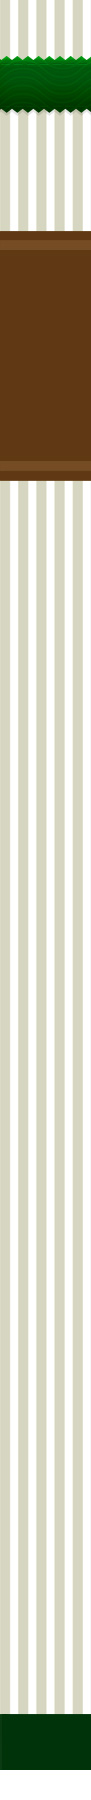
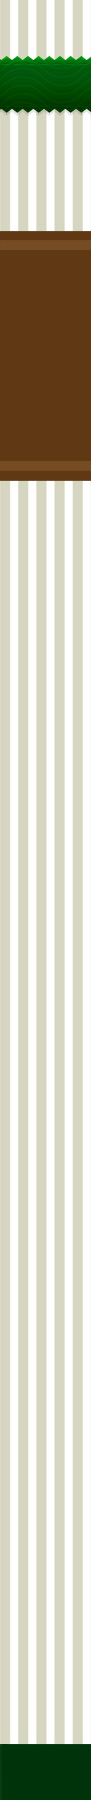
Homepage & About
Only thing lacking in the homepage is the counter and it's all set.
About page is 80% done.

Changed region(s): [[0.0, 0.9333, 1.0, 1.0]]

diff --git a/stylesheet/stylesheet.css b/stylesheet/stylesheet.css
@@ -155,7 +155,6 @@
 
 /* END NIVO SLIDER STYLE*/
 
-
 body{
 	background:url(../images/main_background_bg_2.jpg) top left repeat-x;
 	font-family:Arial, Helvetica, sans-serif;
@@ -180,9 +179,9 @@ body{
 	height:auto;
 	margin:0 auto;
 	background:#FFFFFF;
-	-webkit-box-shadow: 4px 2px  #a7a7a7,  -4px 0 2px #a7a7a7;   
-	-moz-box-shadow: 4px 0 2px #a7a7a7,  -4px 0 2px #a7a7a7;   
-	box-shadow: 4px 0 2px #a7a7a7,  -4px 0 2px #a7a7a7;
+	-webkit-box-shadow: 4px 2px  #ddd,  -4px 0 2px #ddd;   
+	-moz-box-shadow: 4px 0 2px #ddd,  -4px 0 2px #ddd;   
+	box-shadow: 4px 0 2px #ddd,  -4px 0 2px #ddd;
 	padding:10px 0px 0px 0px;
 }
 
@@ -380,17 +379,21 @@ body{
 
 .fundraiser_text_about{
 	font-family:Arial, Helvetica, sans-serif;
-	font-size:32px;
+	font-size:22px;
 	font-weight:bold;
 	text-transform: none;
 	color:#00361b;
 	display:block;
 	background:url(../images/funeral_box1.png) 875px -14px no-repeat;
 	width:1024px;
-	height:104px;
+	height:55px;
 	margin:-64px 0px 0px 0px;
 	text-align:center;
 	padding:40px 0px 0px 0px;
+}
+
+ul.social{
+	padding-top:80px;	
 }
 
 .banner_area{
@@ -469,7 +472,7 @@ body{
 
 .left_panel_there_more{
 	width: 555px;
-	height: 460px;
+	height: 500px;
 	background: url(../images/about_left_panel.png) -6px 0px no-repeat;
 	font-family: Arial, Helvetica, sans-serif;
 	font-size: 16px;
@@ -484,7 +487,7 @@ body{
 	color: #363636;
     font-family: Arial,Helvetica,sans-serif;
     font-size: 16px;
-    height: 72px;
+    height: 65px;
     position: relative;
     right: -162px;
     text-align: justify;
@@ -526,7 +529,7 @@ body{
 
 .golden_oppurtunitie{
 	width:557px;
-	height:803px;
+	height:823px;
 	background:url(../images/golden_oppurtunitie_panel.png)top left no-repeat;
 }
 
@@ -668,13 +671,9 @@ body{
     height: 115px;
     left: -69px;
     position: relative;
-    top: 28px;
+    top: 79px;
     width: 70px;
 }
-
-
-
-
 
 .scroll_down_text{
 	width:1004px;
@@ -813,8 +812,7 @@ body{
 	width:1024px;
 	height:auto;
 	background:#003309;
-	margin:0 auto;
-	
+	margin:0 auto;	
 }
 
 .footer_left{

diff --git a/css/style.css b/css/style.css
@@ -165,17 +165,29 @@ ul.social li{
 #socialbox{
 	background: none; height: 60px;
 }
-#intervid {
-	padding-left:20px;
-}
 #socialbox2{
-	float: right; background: none; height: 52px; 
+	background: none; width: 635px; height: 52px;
+}
+#intervid {
+	width: 635px; padding-left:20px;
 }
 #fund-thermo{
 	width: 200px; margin-left: 10px;	
 }
 #fund-countdown{
 	width: 800px; margin-right: 10px;
+}
+.fundraising-button{
+	width: 380px; height: 65px; background:url(../images/green-ribbon-button.jpg) no-repeat; padding-top: 5px; color: #fff;
+}
+.fundraising-button2{
+	width: 380px; height: 65px; background:url(../images/green-ribbon-button.jpg) no-repeat; padding-top: 13px; color: #fff; 
+}
+.fundraising-button2 h3{
+	font-size: 15px;
+}
+.fundraising-button:hover, .fundraising-button2:hover{
+	color: #DDD;	
 }
 
 /* Contacts Page */

diff --git a/index_about_us.php b/index_about_us.php
@@ -2,7 +2,7 @@
 <html xmlns="http://www.w3.org/1999/xhtml">
 <head>
 <meta http-equiv="Content-Type" content="text/html; charset=utf-8" />
-<title>index</title>
+<title>About Us</title>
 
 <link href='http://fonts.googleapis.com/css?family=Average+Sans' rel='stylesheet' type='text/css'>
 <link rel="stylesheet" href="js/default/default.css" type="text/css" media="screen" />
@@ -115,21 +115,16 @@
 </div> 
 
   <div class="fundraiser_text_about">
-The fundraiser changing the world, <br />
-one bite at a time!
+The fundraiser changing the world, one bite at a time!
 
   </div>
   
-  
-  
-  <div class="scroll_down_text_about">
-  
-  </div>
+  <div class="scroll_down_text_about"></div>
   
   <div class="banner_area_about" >
   
   	
-    <ul>
+    <ul class="social">
     	<li>
           <a href="#">
         <img src="images/rss_icon.png" width="28" height="26" alt="" />
@@ -161,16 +156,10 @@ one bite at a time!
             <div class="slider-wrapper theme-default">
 				<div class="navBtns"> <a href="#" id="previousButton">Prev</a> <a href="#" id="nextButton">Next</a> </div>
 				<div id="slider" class="nivoSlider">
+                	<img src="images/abt-banner-1.jpg" data-thumb="images/abt-banner-1.jpg" alt=""  />
 					<img src="images/abt-banner-3.jpg" data-thumb="images/abt-banner-3.jpg" alt="" />
 					<img src="images/abt-banner-2.jpg" data-thumb="images/abt-banner-2.jpg" alt="" />
-					<img src="images/abt-banner-4.jpg" data-thumb="images/abt-banner-4.jpg" alt=""  /><!--title="#htmlcaption"-->
-                    <img src="images/abt-banner-1.jpg" data-thumb="images/abt-banner-1.jpg" alt=""  /><!--title="#htmlcaption2"-->
-				</div>
-				<div id="htmlcaption" class="nivo-html-caption">
-					<strong>This</strong> is Caption #1 with <a href="#">a link</a>. 
-				</div>
-                <div id="htmlcaption2" class="nivo-html-caption">
-					<strong>This</strong> is Caption #2 with <a href="#">a link</a>. 
+					<img src="images/abt-banner-4.jpg" data-thumb="images/abt-banner-4.jpg" alt=""  />
 				</div>
 			</div>
     </div>
@@ -186,14 +175,12 @@ one bite at a time!
                 	
                     <p class="first_text">
                     Our mission is to embark on a life-changing journey where Meals on a Mission’s 	
-                    Outreach will help create local community gardens using the latest in Green  
+                    Outreach will help create local community gardens using the latest in Green
                     </p>
                     
-                     <p class="second_text">
-Technology.  These gardens will be used to support programs that will teach our community youth on how to cook alongside imparting valuable life long lessons of family balance and humility.
-<br />                                      
-These communities are going to host bi-annual tasting galas in which students will be participating and serving the meals to other children invitees – all of whom comes from abused, orphaned or trafficked homes. This opportunity creates a humbling level of equality for all the participants and spectators alike. Furthermore, this endeavour raises awareness and develops a new generation of individuals who possess technical skills which can be passed on to future generations.
-                    </p>
+                     <p class="second_text">Technology. <br/><br/>These gardens will be used to support programs that will teach our community youth on how to cook alongside imparting valuable life long lessons of family balance and humility.
+<br />  <br />                                    
+These communities are going to host semi-annual tasting galas in which students will be participating and serving the meals to other children invitees – all of whom comes from abused, orphaned or trafficked homes. This opportunity creates a humbling level of equality for all the participants and spectators alike. Furthermore, this endeavour raises awareness and develops a new generation of individuals who possess technical skills which can be passed on to future generations.</p>
 
                 
                 
@@ -205,32 +192,32 @@ These communities are going to host bi-annual tasting galas in which students wi
                 <div class="golden_oppurtunitie">
                 	
                     <p class="text_box1">
-                    <strong class="text_green">PREMIUM LOGO AD SPOTS — </strong>  Our solution is pure and simple. We provide a clean and efficient way to market your website. Your ads are strategically placed on our webpage, on a billboard next to our Chef, which attracts more attention and site visitors. For more information, send us an email at: (insert address) and we will gladly provide all the information you need.
+                    <strong class="text_green">PREMIUM LOGO AD SPOTS — </strong>  Our solution is pure and simple. We provide a clean and efficient way to market your website. Your ads are strategically placed on our webpage, on a billboard next to our Chef, which attracts more attention and site visitors. For more information, send us an email and we will gladly provide all the information you need.
 
                     </p>
                     
                     <p class="text_box2">
       <strong class="text_red"> Be a PIONEER in the INDUSTRY!</strong><br />
-       <strong class="text_green">Email Us At:</strong> LogoAdSpots@meals-ona-mission.com
+       <strong class="text_green">Email Us At:</strong> LogoAdSpots@meals-ona-mission.com <br /><br />
 
 
                     </p>
                     
                     <p class="text_box1">
-                    <strong class="text_green">CHEF PEPE GAME LOGO SPOTS — </strong>  We are the PIONEER in Social Networking using a NEW online Gaming Program in the Fund Raising industry. Our assurance to you: Participants WILL be navigating a page on your website! That’s right, you heard us! Your COMPANY LOGO link is a gatekeeper to an extraordinary, exciting and cutting-edge gaming platform that helps an organization meet its goal! The BEST PART is that  60% of the acquired funds from CPV, are allocated to participating organizations! It’s a win-win situation! You get all the advertising you need while you’re helping out the organization!
+                    <strong class="text_green">FOOD GAMES FOR FUND$ — </strong>  : We are the PIONEER in Social Networking using a NEW online Gaming Platform in the Fundraising industry. Our assurance to ALL participating web-businsses: Game Players WILL be navigating a page on your website! That’s right, you heard us! Your COMPANY LOGO link is a gatekeeper to an extraordinary, exciting and cutting-edge gaming platform that helps an organization meet its goal! And the BEST PART is that 60% of the acquired revenue from playing, are allocated to participating organizations! It’s a win-win situation! You get all the advertising you need while you’re helping out the organization!
 
                     </p>
                     
                     <p class="text_box2">
       <strong class="text_red"> Be a part of this compelling REVOLUTION!</strong><br />
-       <strong class="text_green">Email Us At:</strong> ChefGames@meals-ona-mission.com
+       <strong class="text_green">Email Us At:</strong> ChefGames@meals-ona-mission.com <br /><br />
 
 
                     </p>
                     
                     <p class="text_box1">
                     <strong class="text_green">ALL FUNERAL RELATED BUSINESS -—</strong>  We must actively bring conscious awareness to humanity that people are passing without a proper transitions to their permanent resting place. This uneasy truth needs to be revisited in a different yet well needed and compassionate way.
-                    Meals on a Mission supports families by ensuring availability to all who are in need of financial support and assistance the ability to bury their loved ones under the age of 18 with grace and ease. Healing starts from within but our connection and support is a universal movement that will impact humanity especially if exercised with love and compassion.
+                    Meals on a Mission supports families by ensuring availability to all who are in need of financial support and assistance the ability to bury their loved ones under the age of 18 with grace and ease. We have developed “In Remembrance of Me” a program developed to assist the families. The Meals On A Mission will be donating 70% of net sales to the contracted funeral homes.
 
 
 

diff --git a/index.php b/index.php
@@ -48,10 +48,10 @@
       <div class="divider"></div>
       <div class="floatL">
       	<div id="intervid">
-        <h2>To View The Entertaining Campaign Interview With The <br />Founder And CEO And Their Mascot... Chef Pepe Roni!</h2>
+        <img src="images/intervid-header.png"/>
         <iframe width="615" height="415" src="//www.youtube.com/embed/Ewu40HCUZuY" frameborder="0" allowfullscreen></iframe>
         </div>
-        <div id="socialbox2">    
+        <div id="socialbox2" align="right">    
             <a href="#"><img src="images/fb_icon2.png" width="30" alt=""></a>
             <a href="#"><img src="images/linkedin_icon.png" width="30" alt=""></a>
             <a href="#"><img src="images/twitter_icon2.png" width="30" alt=""></a>
@@ -87,10 +87,11 @@
         <div class="floatR" id="fund-countdown">
         	<h2 align="center">COUNTDOWN TO THE END OF OUR CROWDFUNDING CAMPAIGN</h2>
             <?php include_once "countdown.php" ?>
+            <a href="#"><div class="floatL fundraising-button"><h3 align="center">Interested Investors</h3></div></a>
+            <a href="#"><div class="floatL fundraising-button2"><h3 align="center">Indiegogo Crowdfunding Campaign</h3></div></a>
         </div>
       </div>
     </div>
-    <div class="moam-link"><a href="http://www.gofundme.com/meals-ona-mission">www.GoFundMe.com/Meals-OnA-Mission</a></div>
     <div class="clear"></div>
   </div>
   <div class="page-bottom"></div>
